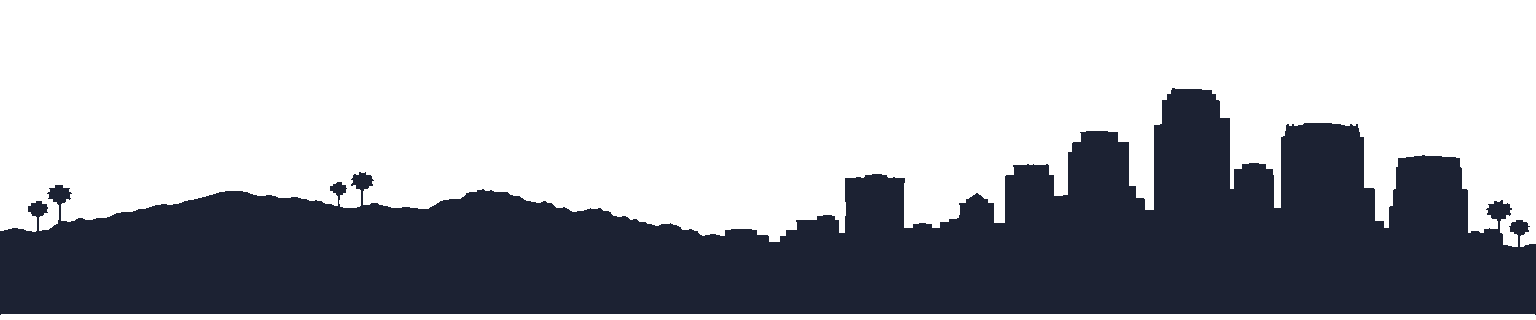
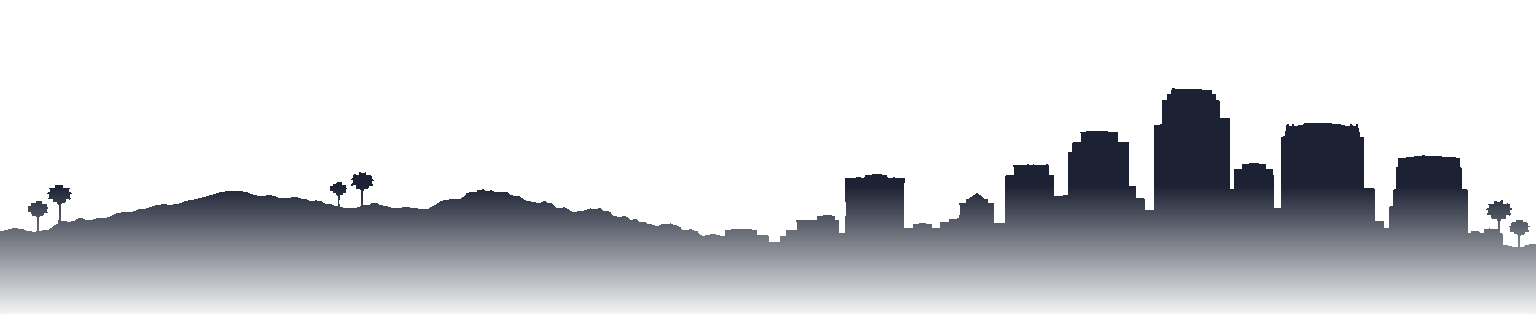
Room: clamped camera (zoom + no borders), night lift, stars, sun/moon sprites, feathered skyline
Fixes for the court room per feedback:
- CAMERA: the room now uses the SAME clamped camera as the city (world = the backdrop
  plate's pixels via worldDims()), replacing the contain-fit/letterbox. min-zoom = cover
  so the plate always fills the viewport — you can PAN + ZOOM and never see a border or
  the floor-floating-over-sky edge. doRoomSwap frames the room at cover-zoom and
  stashes/restores the boulevard camera on exit. pan/zoom/follow/resize all take the
  active dims. (Standard 2D camera-bounds technique.)
- NIGHT LIFT: additively re-composite the plate (alpha ∝ nightAt) so painted lit
  windows/signage glow after dark — buildings read at night.
- STARS: a deterministic twinkling star field fades in with night in drawAreaSky.
- SUN/MOON: drawAreaSky now uses a baked sprite if present (overture/sun.png ·
  moon.png), else the procedural disc — drop-in upgrade.
- SKYLINE: feathered the silhouette + windows base to alpha and raised rooflineY so the
  strip tucks behind the storefronts (no hard horizontal line).

Docs: rewrote CLAUDE.md rule 7b for the AREAS registry + clamped-camera room model.

Claude-Session: https://claude.ai/code/session_01MzT91WcyqemncboiCffQLx

diff --git a/src/game/renderer.ts b/src/game/renderer.ts
@@ -117,7 +117,7 @@ const AREAS: Record<string, AreaView> = {
     halfTop: 520, halfBot: 650,
     cx: 758, entryX: 758, entryY: 940,
     scaleBack: 0.72,
-    sky: { skyline: "skyline-silhouette", windows: "skyline-windows", rooflineY: 250 },
+    sky: { skyline: "skyline-silhouette", windows: "skyline-windows", rooflineY: 360 },
   },
 };
 const ROOM_FADE = 0.42; // seconds for a full fade-through-black scene swap
@@ -372,6 +372,7 @@ export class HollywoodRenderer {
   private room: string | null = null;
   private trans: { to: string | null; t: number; swapped: boolean } | null = null;
   private roomReturn: { x: number; y: number } | null = null;
+  private camReturn: { x: number; y: number; zoom: number } | null = null;
   // Active outfit per soul: soulId → sprite stem (see outfits.ts). Absent → wears its default
   // (stem = soul id). Swapping an entry changes which sprite (front + `_back`) drawNPC loads.
   private outfits = new Map<string, string>();
@@ -555,6 +556,14 @@ export class HollywoodRenderer {
     return this.room ? AREAS[this.room] ?? null : null;
   }
 
+  // Active camera-bounds dimensions: the room's backdrop plate when inside one, else the world.
+  // The camera clamp + min-zoom use these, so a room pans/zooms exactly like the city and NEVER
+  // shows past the plate edges (min-zoom = cover; position clamped to the plate).
+  private worldDims(): [number, number] {
+    const R = this.activeArea();
+    return R ? [R.w, R.h] : [WORLD_W, WORLD_H];
+  }
+
   // Room player step: move within the painted floor trapezoid (room-local coords). Walking down
   // off the front edge exits back to the court.
   private updateRoomPlayer(pc: NpcRuntime, dt: number): void {
@@ -582,6 +591,7 @@ export class HollywoodRenderer {
       // pressing down at the front edge of the floor → walk out, back to the court
       if (vy > 0 && pc.y >= R.floorBot - 6) this.startTransition(null);
     }
+    this.followCam(pc.x, pc.y); // camera eases to keep the avatar framed (clamped to the plate)
   }
 
   // Is a room-local point on the painted floor? A trapezoid lane widening toward the viewer.
@@ -609,14 +619,30 @@ export class HollywoodRenderer {
         pc.x = R.entryX;
         pc.y = R.entryY;
       }
+      this.camReturn = { ...this.cam }; // remember the boulevard view to restore on exit
       this.room = this.trans.to;
       this.facingUp = true; // arrive facing into the scene
+      // frame the room at cover-zoom (plate fills the viewport; can't see past its edges), centred
+      // on the arrival point then clamped to the plate — same camera model as the city.
+      if (R) {
+        const [ww, wh] = [R.w, R.h];
+        this.cam.zoom = minZoomFor(this.cssW, this.cssH, ww, wh) * 1.05;
+        this.cam.x = R.entryX - this.cssW / this.cam.zoom / 2;
+        this.cam.y = R.entryY - this.cssH / this.cam.zoom / 2;
+        clampCamera(this.cam, this.cssW, this.cssH, ww, wh);
+      }
     } else {
       this.room = null;
       if (pc) {
         // return to the court just south of the enter line so you don't instantly re-trigger
         pc.x = this.roomReturn?.x ?? OVERTURE.cx;
         pc.y = COURT_ENTER_Y + 150;
+      }
+      if (this.camReturn) {
+        this.cam.x = this.camReturn.x;
+        this.cam.y = this.camReturn.y;
+        this.cam.zoom = this.camReturn.zoom;
+        this.camReturn = null;
       }
       this.facingUp = false;
     }
@@ -646,19 +672,22 @@ export class HollywoodRenderer {
       this.cam.y = cy - cssH / this.cam.zoom / 2;
       this.centered = true;
     }
-    clampCamera(this.cam, this.cssW, this.cssH, WORLD_W, WORLD_H);
+    const [ww, wh] = this.worldDims();
+    clampCamera(this.cam, this.cssW, this.cssH, ww, wh);
   }
 
   // ---- camera controls (called by input + zoom buttons) ----
 
   private panBy(dxCss: number, dyCss: number) {
+    const [ww, wh] = this.worldDims();
     this.cam.x -= dxCss / this.cam.zoom;
     this.cam.y -= dyCss / this.cam.zoom;
-    clampCamera(this.cam, this.cssW, this.cssH, WORLD_W, WORLD_H);
+    clampCamera(this.cam, this.cssW, this.cssH, ww, wh);
   }
 
   private zoomAt(factor: number, cssX: number, cssY: number) {
-    zoomAbout(this.cam, factor, cssX, cssY, this.cssW, this.cssH, WORLD_W, WORLD_H);
+    const [ww, wh] = this.worldDims();
+    zoomAbout(this.cam, factor, cssX, cssY, this.cssW, this.cssH, ww, wh);
   }
 
   // Zoom about the viewport center — for on-screen +/- buttons.
@@ -668,11 +697,12 @@ export class HollywoodRenderer {
 
   // Ease the camera to keep the controlled character centered.
   private followCam(x: number, y: number) {
+    const [ww, wh] = this.worldDims();
     const tx = x - this.cssW / this.cam.zoom / 2;
     const ty = y - this.cssH / this.cam.zoom / 2;
     this.cam.x += (tx - this.cam.x) * 0.12;
     this.cam.y += (ty - this.cam.y) * 0.12;
-    clampCamera(this.cam, this.cssW, this.cssH, WORLD_W, WORLD_H);
+    clampCamera(this.cam, this.cssW, this.cssH, ww, wh);
   }
 
   // Designate the player-driven character (its patrol AI is suspended), or null
@@ -840,32 +870,40 @@ export class HollywoodRenderer {
     this.drawTransition();
   }
 
-  // Render an AREA (scene-swap room). The backdrop plate is contain-fit to the frame; the avatar
-  // walks the painted floor as a normal foot-Y billboard, mildly depth-scaled. HEAD-ON areas get a
-  // procedural time-of-day SKY behind the plate (+ an optional baked skyline/window layer). All the
-  // character machinery (contact shadow, walk FX, leg-blur, front/back) is reused verbatim — an area
-  // is just a different coordinate space + backdrop + declared view.
+  // Render an AREA (scene-swap room). The backdrop plate is shown through the SAME clamped camera as
+  // the city (world = the plate's pixels), so it pans/zooms and never reveals an edge (min-zoom =
+  // cover). HEAD-ON areas get a procedural time-of-day SKY (screen-space, behind the plate, seen
+  // through the plate's transparent top) + an optional baked skyline/window layer. The avatar walks
+  // the painted floor as a normal foot-Y billboard, mildly depth-scaled. All the character machinery
+  // (contact shadow, walk FX, leg-blur, front/back) is reused verbatim.
   private renderArea(t: number, R: AreaView): void {
     const ctx = this.ctx;
     ctx.setTransform(1, 0, 0, 1, 0, 0);
-    if (R.view === "headon") this.drawAreaSky(); // time-reactive sky fills the whole frame (bars incl.)
+    if (R.view === "headon") this.drawAreaSky(t); // time-reactive sky behind the plate
     else {
-      ctx.fillStyle = "#0d0b09"; // top-down area: plain letterbox
+      ctx.fillStyle = "#0d0b09";
       ctx.fillRect(0, 0, this.canvas.width, this.canvas.height);
     }
-    const scale = Math.min(this.cssW / R.w, this.cssH / R.h);
-    const s = this.dpr * scale;
-    const offX = (this.cssW * this.dpr - R.w * s) / 2;
-    const offY = (this.cssH * this.dpr - R.h * s) / 2;
-    ctx.setTransform(s, 0, 0, s, offX, offY);
+    // camera transform (plate-pixel space) — clamped by worldDims() so no border ever shows
+    const s = this.dpr * this.cam.zoom;
+    ctx.setTransform(s, 0, 0, s, -this.cam.x * s, -this.cam.y * s);
     ctx.imageSmoothingEnabled = true;
     ctx.imageSmoothingQuality = "high";
-    // distant skyline (behind the plate) — baked shape multiply-tinted by the clock, night windows added
-    if (R.sky) this.drawAreaSkyline(R);
+    if (R.sky) this.drawAreaSkyline(R); // distant skyline behind the plate
     // backdrop plate (storefronts + floor)
     const img = this.getOverture(R.backdrop);
     if (img && img.complete && img.naturalWidth > 0) {
       ctx.drawImage(img, 0, 0, R.w, R.h);
+      // NIGHT LIFT: additively re-composite the plate so its painted lit windows / signage GLOW after
+      // dark (the bright pixels add, the dark ones add ~nothing) — so buildings read at night.
+      const night = nightAt(this.engine.clockMinutes);
+      if (night > 0.02) {
+        ctx.save();
+        ctx.globalCompositeOperation = "lighter";
+        ctx.globalAlpha = 0.22 * night;
+        ctx.drawImage(img, 0, 0, R.w, R.h);
+        ctx.restore();
+      }
     } else {
       ctx.fillStyle = "#c9b48c";
       ctx.fillRect(0, R.floorTop - 20, R.w, R.h - R.floorTop + 20);
@@ -888,7 +926,7 @@ export class HollywoodRenderer {
 
   // Procedural time-of-day sky (screen space): a zenith→horizon gradient keyed to the sim clock,
   // plus a sun (day) / moon (night) disc with a soft halo, plus a warm golden-hour horizon wash.
-  private drawAreaSky(): void {
+  private drawAreaSky(t: number): void {
     const ctx = this.ctx;
     const W = this.canvas.width, H = this.canvas.height;
     const mins = this.engine.clockMinutes;
@@ -899,12 +937,28 @@ export class HollywoodRenderer {
     ctx.fillStyle = g;
     ctx.fillRect(0, 0, W, H);
     const night = nightAt(mins), golden = goldenAt(mins);
-    // sun / moon disc arcs left→right across the day; higher at midday. Moon rides the night side.
+    // STARS — a deterministic field scattered across the upper sky, fading in with night (twinkle
+    // via a slow per-star phase). Drawn before sun/moon so the moon reads over them.
+    if (night > 0.02) {
+      ctx.save();
+      ctx.fillStyle = "#eaf0ff";
+      for (let i = 0; i < 90; i++) {
+        const sx = groundHash(i * 2 + 1, 7) * W;
+        const sy = groundHash(i * 2 + 2, 11) * H * 0.62;
+        const tw = 0.5 + 0.5 * Math.sin(t * 0.0015 + i * 1.7);
+        ctx.globalAlpha = night * (0.35 + 0.55 * tw) * (0.5 + 0.5 * groundHash(i, 3));
+        const r = 1.1 + 1.4 * groundHash(i * 3, 5);
+        ctx.fillRect(sx, sy, r, r);
+      }
+      ctx.restore();
+    }
+    // sun / moon — a baked sprite if present (public/overture/sun.png · moon.png), else a soft disc.
+    // Arcs left→right across the day; higher at midday. Moon rides the night side.
     const dayF = Math.max(0, Math.min(1, (((mins % 1440) + 1440) % 1440 - 360) / (1200 - 360)));
     const discX = W * (0.14 + 0.72 * dayF);
     const discY = H * (0.40 - 0.20 * Math.sin(dayF * Math.PI));
-    const rad = Math.min(W, H) * 0.05;
-    const drawDisc = (x: number, y: number, col: string, halo: string, alpha: number) => {
+    const rad = Math.min(W, H) * 0.055;
+    const drawBody = (x: number, y: number, stem: string, col: string, halo: string, alpha: number) => {
       if (alpha < 0.03) return;
       ctx.save();
       ctx.globalAlpha = alpha;
@@ -913,15 +967,20 @@ export class HollywoodRenderer {
       hg.addColorStop(1, "rgba(0,0,0,0)");
       ctx.fillStyle = hg;
       ctx.fillRect(x - rad * 5, y - rad * 5, rad * 10, rad * 10);
-      ctx.globalAlpha = alpha;
-      ctx.beginPath();
-      ctx.arc(x, y, rad, 0, Math.PI * 2);
-      ctx.fillStyle = col;
-      ctx.fill();
+      const spr = this.getOverture(stem);
+      if (spr && spr.complete && spr.naturalWidth > 0) {
+        const w = rad * 2.6, h = w * (spr.naturalHeight / spr.naturalWidth);
+        ctx.drawImage(spr, x - w / 2, y - h / 2, w, h);
+      } else {
+        ctx.beginPath();
+        ctx.arc(x, y, rad, 0, Math.PI * 2);
+        ctx.fillStyle = col;
+        ctx.fill();
+      }
       ctx.restore();
     };
-    drawDisc(discX, discY, "rgba(255,246,214,1)", "rgba(255,226,150,0.5)", 1 - night); // sun
-    drawDisc(W * 0.76, H * 0.2, "rgba(226,232,244,1)", "rgba(180,196,230,0.4)", night * (1 - golden)); // moon
+    drawBody(discX, discY, "sun", "rgba(255,246,214,1)", "rgba(255,226,150,0.5)", 1 - night); // sun
+    drawBody(W * 0.76, H * 0.2, "moon", "rgba(226,232,244,1)", "rgba(180,196,230,0.4)", night * (1 - golden)); // moon
     if (golden > 0.02) {
       // warm horizon wash low in the sky
       ctx.save();

diff --git a/CLAUDE.md b/CLAUDE.md
@@ -111,19 +111,26 @@ feet-anchored to one ground-Y, which is the sort key.
      scale-about-pivot wrap / a trapezoid floor. If a future space needs more
      enclosure, bake a single-angle plate (Gaia-style) — do not compute a VP.
 
-   **7b. Enterable spaces are Gaia-style SCENE-SWAP ROOMS (`renderRoom` / `COURT_ROOM`).**
+   **7b. Enterable spaces are Gaia-style SCENE-SWAP ROOMS (`renderArea` / `AREAS`).**
    The detailed court interior is NOT drawn in the overworld — it's a room you crossfade
    into. Walk deep enough up the court (`pc.y < COURT_ENTER_Y` on the axis) and
    `startTransition("overture-court")` runs a fade-through-black; at the mid-fade
-   `doRoomSwap` stashes the world position and sets `this.room`. `render()` then
-   dispatches to `renderRoom` instead of `renderWorld`: one painted backdrop plate
-   (`overture-court-interior.png`) is contain-fit to the frame (letterboxed), and the
-   avatar walks the painted floor as a **normal foot-Y billboard** (mild depth-scale by
-   `y`), reusing contact shadow / walk FX / leg-blur / front-back **verbatim** — the room
-   is just a different coordinate space (the plate's pixel space) + backdrop. Movement is
-   bounded to a floor trapezoid (`roomCanWalk`); walking down off the front edge exits.
-   This is the generic mechanism for ALL future enterable buildings — add a room def +
-   one painted plate, no new render pass. `setControlled` drops any active room.
+   `doRoomSwap` stashes the world position + camera and sets `this.room`. `render()` then
+   dispatches to `renderArea`. Rooms live in an `AREAS` registry: each area DECLARES its
+   `view` (`'topdown'` city vs `'headon'` elevated), backdrop plate, floor band, and optional
+   `sky` — so adding a rooftop/interior is DATA, not new render code. The plate is shown
+   through the **same clamped camera as the city** (world = the plate's pixels via
+   `worldDims()`), so a room **pans + zooms and NEVER reveals an edge** (min-zoom = cover;
+   position clamped) — never contain-fit/letterbox, which showed borders. The avatar walks the
+   painted floor as a **normal foot-Y billboard** (mild depth-scale by `y`), reusing contact
+   shadow / walk FX / leg-blur / front-back **verbatim**. Movement is bounded to a floor
+   trapezoid (`roomCanWalk`); walking down off the front edge exits. **Head-on areas draw a
+   procedural time-of-day SKY** (`drawAreaSky`: zenith→horizon gradient + sun/moon disc-or-sprite
+   + stars + golden wash, all keyed to the clock) behind the plate, seen through the plate's
+   transparent top, plus an optional baked skyline (`skyline-silhouette` + emissive
+   `skyline-windows`, feathered base tucked behind the buildings). A night additive re-composite
+   of the plate makes its lit windows/signage glow. `setControlled` drops any active room. This
+   is the generic mechanism for ALL future enterable buildings — add an `AREAS` entry + one plate.
 
 ## Asset pipeline
 
